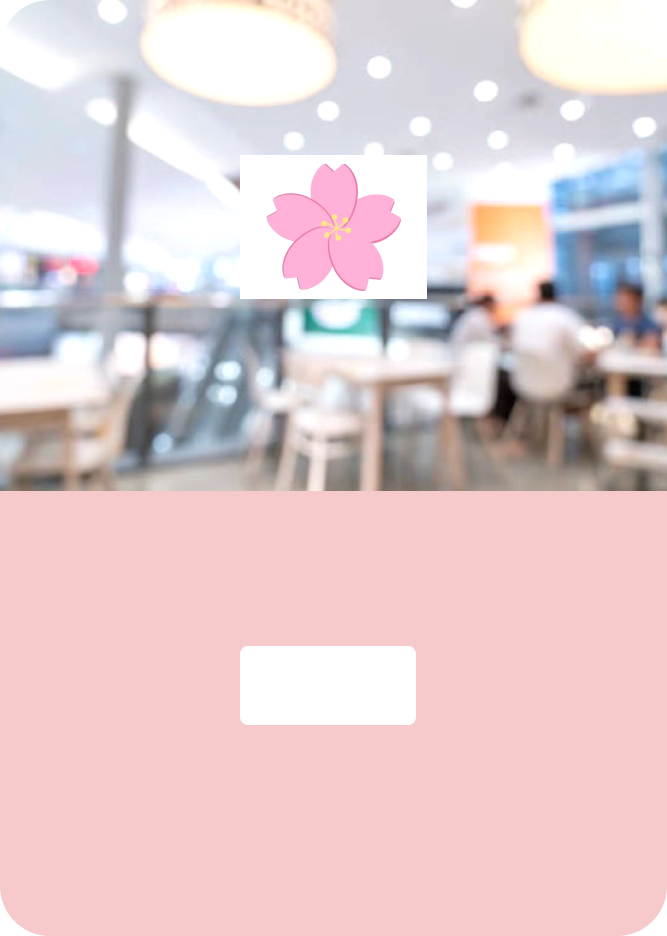
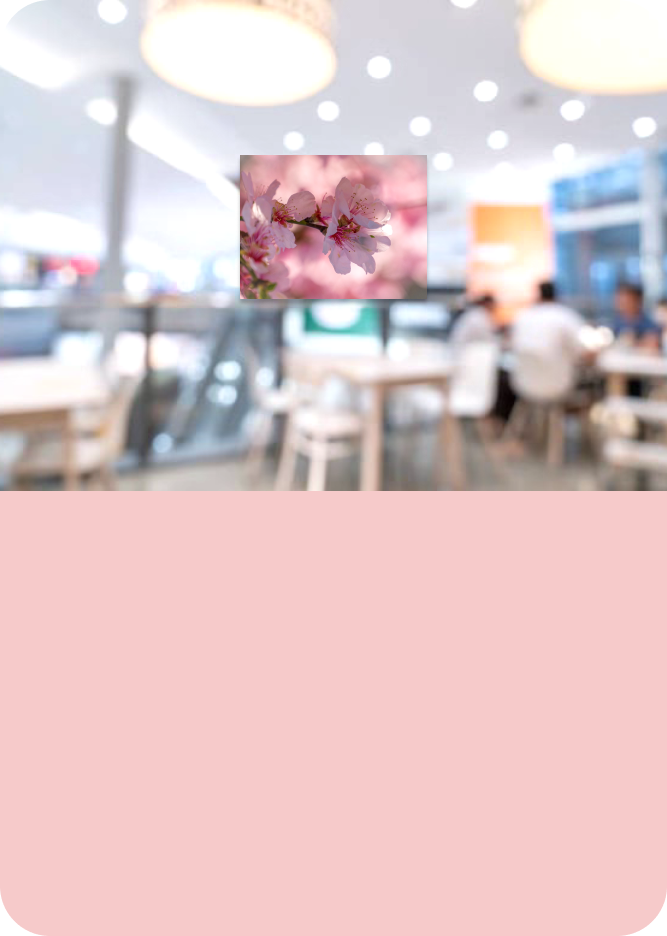
ホーム画面のフロントエンドの構成仕組みはほぼ完了した

Changed region(s): [[0.3598, 0.1549, 0.6597, 0.3408], [0.3598, 0.6816, 0.6297, 0.7746]]

diff --git a/app/assets/stylesheets/aecsites.scss b/app/assets/stylesheets/aecsites.scss
@@ -27,7 +27,8 @@
     height: 600px;
     width: 100%;
     background-image: url();
-    background-color: darkcyan;//テスト用
+    /*background-color: darkcyan;//テスト用*/
+    background-image: url('university_cource.jpeg');
     position: relative;
     background-repeat: no-repeat;
     background-size: cover;//背景画像が画面いっぱいに表示され、縦横比も維持するためのコード
@@ -49,53 +50,134 @@
 /* 科目の部分(前背景の部分かつ3つの科目を表示する部分) */
 .courcelist{
     position: absolute;
-    /*background-image: url('university_style.png');*/
+    
     background-position: center;
     background-repeat: no-repeat;
     background-size: cover;
+    display: flex;
     border-radius: 9%;
     top: 63%;
     left: 50%;
     width: 100%;
-    height: 60%;
+    height: 84%; //　3つの背景画像が全体に映るようにするために調整したもの
     transform: translate(-50%, -50%);
     z-index: 2; // テキストと同じレベルで表示するためのコード
 }
-/* 共通教育科目の部分 */
-.courcelist .common{
+/* 共通教育科目の背景画像の部分 */
+.common{
     aspect-ratio: 25/12;/* これはright: n%;を加えると連動する*/
-    
-    top: 66.5%;/*後で元に戻す*/
+    background-image: url('courcelist_common.png');
+    margin: 6%;
+    position: relative; //クラスcommoncの位置を調整するための親要素を書くためのコード
+    background-size: cover;
+    background-repeat: no-repeat;
+    background-position: center;
+    border-radius: 9%;
+    //font-size: 95%;
+    z-index: 3; //背景レイヤーの上に表示するためのコード //*この数値の値が大きいほど前にくるように
+
+    /* 使わないコード */
+    /*top: 66.5%;*//*後で元に戻す*/
     /*right: 6.4%;*/ /*これを設定するとbackground-colorのサイズがデカくなる*/
-    left: 13.4%;
-    /*text-align: center;*/
-    color: aliceblue;
-    background-color: white;
-    font-size: 95%;
-    z-index: 3;//背景レイヤーの上に表示するためのコード
+    /*left: 13.4%;*/
 }
-/* 工学科共通科目の部分 */
-.courcelist .commontech{
-    aspect-ratio: 25/10;
-    left: 45.8%;
-    top: 66.5%;  
+/* 共通教育科目の文字の部分 */
+.courcelist .commonc{
+    position: absolute; //クラスtlを親要素とする時、tlのdivの中だけ位置を調整するために子要素として定めるコード
+    
+    width: 100%;
+    //margin-top: 185.8%; // これだとサイズを変更するごとに位置がズレるので良くない
+    //margin-bottom: 185.8%; // これだとサイズを変更するごとに位置がズレるので良くない
+    top: 72.5%; // これにposition: absolute;を併用することでサイズが変わっても位置がずれないようにするためにtopで微調整する
+    background-color: antiquewhite;
+    //font-size: smaller;
     text-align: center;
-    color: aliceblue;
-    background-color: white;
-    font-size: 95%;
-    z-index: 3;//背景レイヤーの上に表示するためのコード
+    //align-items: flex-end;
+    //text-align: center;
 }
-/* 電子情報工学科の部分 */
-.courcelist .tl{
-    aspect-ratio: 25/10; 
-    left: 76.4%;
-    top: 66.5%;
+
+/* 工学科共通科目の背景画像の部分 */
+.commontech{
+    aspect-ratio: 25/12;
+    background-image: url('courcelist_commontech.png');
+    margin: 6%;
+    position: relative; //クラスcommontechcの位置を調整するための親要素を書くためのコード
+    background-size: cover;
+    background-repeat: no-repeat;
+    background-position: center;
+    border-radius: 9%;
+    //font-size: 95%;
+    z-index: 3;
+
+    /* 使わないコード*/
+    /*left: 45.8% */
+    /*top: 66.8%*/
+}
+/* 工学科共通科目の文字の部分 */
+.commontech .commontechc{
+    position: absolute; //クラスtlを親要素とする時、tlのdivの中だけ位置を調整するために子要素として定めるコード
+    //margin-top: 185.8%; // これだとサイズを変更するごとに位置がズレるので良くない
+    //margin-bottom: 185.8%; // これだとサイズを変更するごとに位置がズレるので良くない
+    top: 72.5%; // これにposition: absolute;を併用することでサイズが変わっても位置がずれないようにするためにtopで微調整する
+    background-color: #aeecec;
+    /* height: 150%; */
+    width: 100%;
     text-align: center;
+
+}
+
+/* 電子情報工学科の背景画像の部分 */
+.tl{
+    aspect-ratio: 25/12; 
+    background-image: url('courcelist_tl.png');
+    position: relative; //クラスtlcの位置を調整するための親要素を書くためのコード
+    margin: 6%;
+    background-size: cover;
+    background-repeat: no-repeat;
+    background-position: center;
+    border-radius: 9%;
+    //font-size: 95%;
+    z-index: 3;
+
+
+    /* 使わないコード */
     /*right: 5.3%;*/ /*これを設定するとbackground-colorのサイズがデカくなる*/
-    color: aliceblue;
-    background-color: white;
-    font-size: 95%;
-    z-index: 3;//背景レイヤーの上に表示するためのコード
+    /*left: 76.4%;*/
+    /*top: 66.5%;*/
+}
+/* 電子情報工学科の文字の部分 */
+.tlc{
+    position: absolute; //クラスtlを親要素とする時、tlのdivの中だけ位置を調整するために子要素として定めるコード
+    //margin-top: 185.8%; // これだとサイズを変更するごとに位置がズレるので良くない
+    //margin-bottom: 185.8%; // これだとサイズを変更するごとに位置がズレるので良くない
+    top: 72.5%; // これにposition: absolute;を併用することでサイズが変わっても位置がずれないようにするためにtopで微調整する
+    background-color: rgb(177, 172, 172);
+    width: 100%;
+    text-align: center;
+    /* 使わないコード */
+    /*justify-content: center;*/
+    /* height: 150%; */
+}
+
+
+
+
+/* 最背景を明るく薄めるためのレイヤーを追加 */
+.cource::before {
+    content: "";
+    position: absolute;
+    top: 0;
+    left: 0;
+    right: 0;
+    bottom: 0;
+    background-color: rgba(255, 255, 255, 0.562); //背景を明るく薄めるためのコード
+    z-index: 1;//オーバーレイが背景画像の上に表示されるようにするためのコード、画面を一番後ろに表示するためにz-indexの値を1にした。
+    //background-color: rgba(255, 255, 255, 0.562); z-index: 1; この二つで一番後ろの画像を明るく薄めるために使うコード
+}
+/* コンテンツのスタイル */
+.cource.content {
+    position: relative;
+    z-index: 3; //背景の上に表示するために z-index を設定するためのコード
 }
 
 
@@ -134,6 +216,7 @@
 /* 二つ目の背景画像 */
 .universitystyle{
     position: absolute;
+    aspect-ratio: 25/10;
     background-image: url('university_style.png');
     background-position: center;
     background-repeat: no-repeat;
@@ -145,20 +228,35 @@
     height: 60%;
     transform: translate(-50%, -50%);
     z-index: 2; // テキストと同じレベルで表示するためのコード
+    
+    /* Flexbox to center the button inside */
+    /*display: flex;*/
+    /*justify-content: center;*/ /* Center horizontally */
+    /*align-items: center;*/ /* Center vertically */
 }
 /* 大学生活のボタンの部分 */
-.universitystyle p{
-    aspect-ratio: 25/10;
-   //height: auto;
-    left: 36.7%;
-    top: 66.5%;
+/*.universitystyle p*/ //これだと<p>タグ全部に反映されるので個別に細かく調整する場合はこの書き方はオススメしない
+.universitystyle .universitysylec {
+    position: absolute;
+    width: 100%;
+    top: 72.5%; // 
+    //margin-top: 185.8%; // これだとサイズを変更するごとに位置がズレるので良くない
+    //margin-bottom: 285.8%; // これだとサイズを変更するごとに位置がズレるので良くない
+    //height: auto;
+    //left: 36.7%;
+    //top: 66.5%;
     //margin: 0;
-    //padding: 10px 20px;
+    //padding: 5px 5px;
+    
+    //justify-content: center;
     text-align: center;
-    color: aliceblue;
-    background-color: white;
-    font-size: 95%;
+    //justify-content: center;
+    //align-items: center;
+    //color: aliceblue;
+    background-color: rgb(232, 152, 180);
+    //font-size: 95%;
     z-index: 3;//背景レイヤーの上に表示するためのコード
+    
 }
 /* 背景を明るく薄めるためのレイヤーを追加 */
 .lifestyle::before {
@@ -246,3 +344,20 @@
 /**/
 
 /**/
+
+
+/* コード性質 */
+/* サイズが変わっても位置がずれない方法 */
+/*
+    <div class="a">
+      <div class="b">よろしく！！</div>
+    </div>
+  
+    .a{
+       position: relative;
+    }
+    .a .b{
+       position: absolute;
+       top: x%;
+    この組み合わせで画面のサイズを変えても位置がクラスbに格納している文字や画像などは変わらない
+*/
